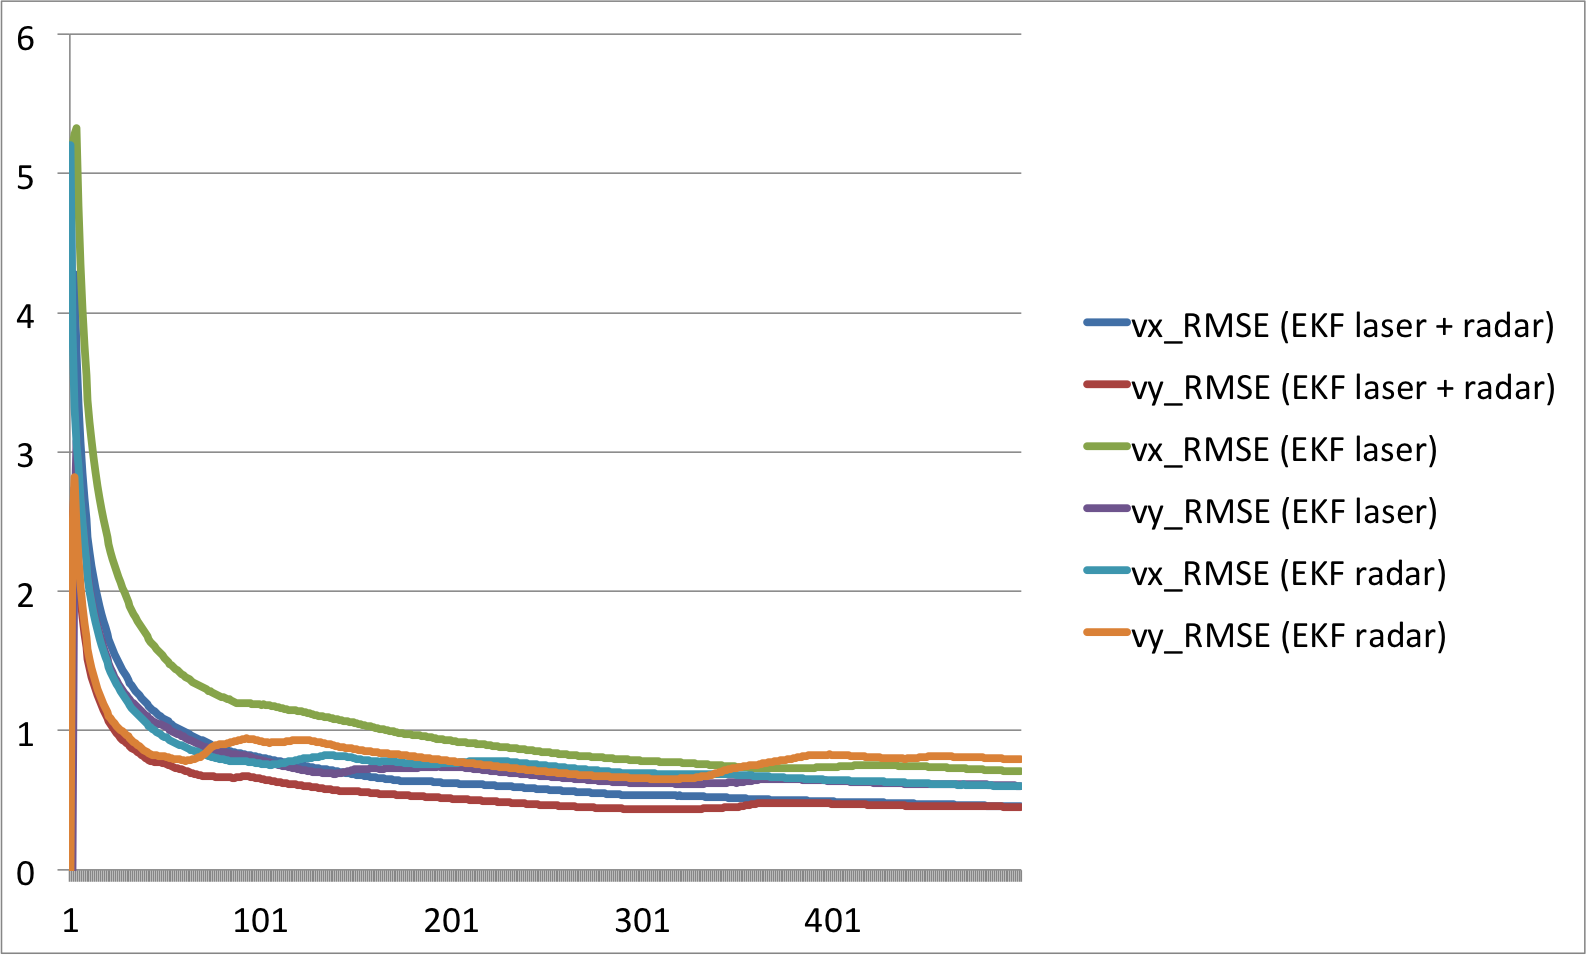
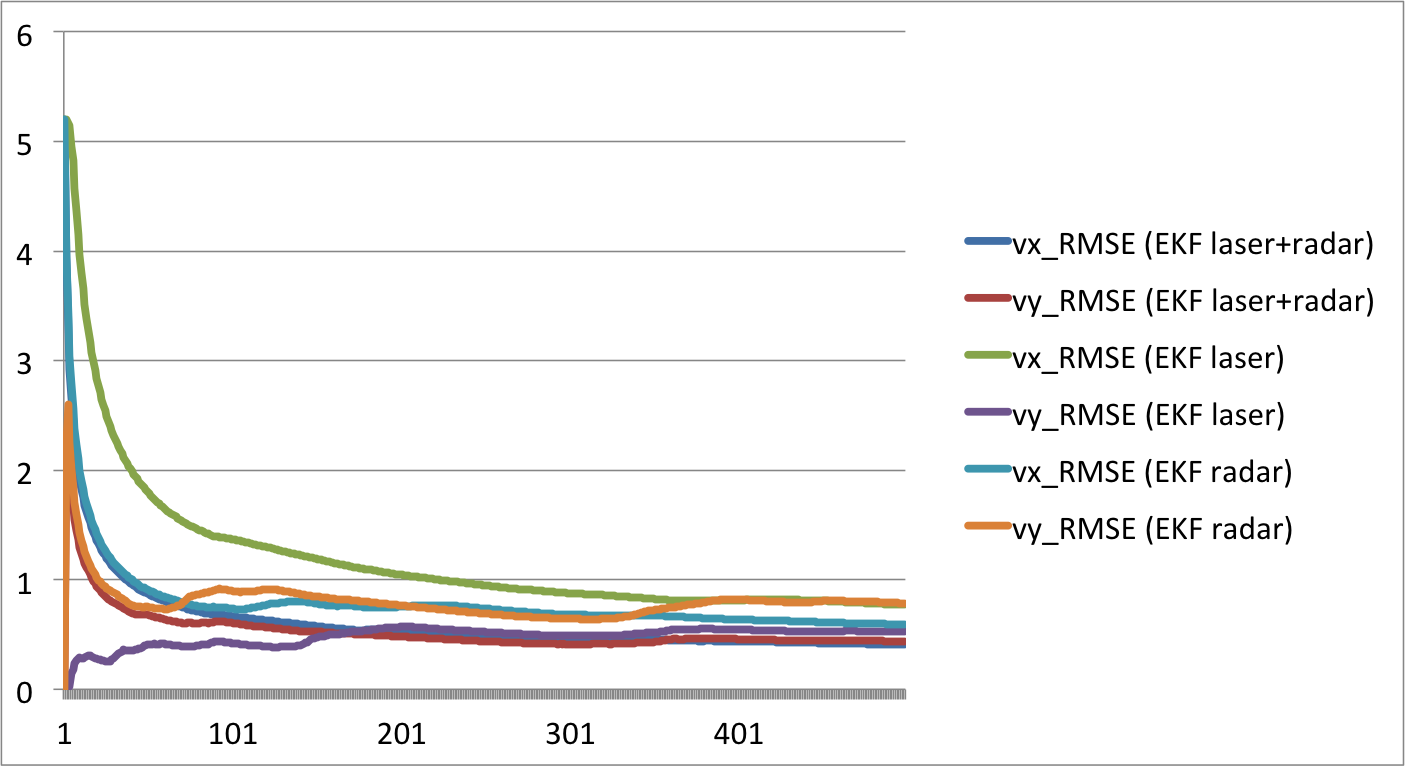
Correct initialization, angle compensation and some result images.

Changed region(s): [[0.0, 0.0, 1.0, 1.0], [0.6733, 0.4504, 0.9181, 0.7206]]

diff --git a/src/kalman_filter.cpp b/src/kalman_filter.cpp
@@ -35,9 +35,9 @@ void KalmanFilter::Update(const VectorXd &z) {
   VectorXd z_pred = H_ * x_;
   VectorXd y = z - z_pred;
   MatrixXd Ht = H_.transpose();
-  MatrixXd S = H_ * P_ * Ht + R_;
-  MatrixXd Si = S.inverse();
   MatrixXd PHt = P_ * Ht;
+  MatrixXd S = H_ * PHt + R_;
+  MatrixXd Si = S.inverse();
   MatrixXd K = PHt * Si;
   
   //new estimate
@@ -72,7 +72,7 @@ void KalmanFilter::UpdateEKF(const VectorXd &z) {
   if(y(1) > M_PI){
     y(1) = y(1) - 2 * M_PI;
   }
-  else if(y(1) < -M_PI){
+  if(y(1) < -M_PI){
     y(1) = y(1) + 2 * M_PI;
   }
 

diff --git a/src/main.cpp b/src/main.cpp
@@ -155,7 +155,8 @@ int main()
             float py = rho * sin(phi);
             logfile << px << "\t" << py << "\t";
           }
-          logfile << gt_values(0) << "\t" << gt_values(1) << "\t" << gt_values(2) << "\t" << gt_values(3) << endl;
+          logfile << gt_values(0) << "\t" << gt_values(1) << "\t" << gt_values(2) << "\t" << gt_values(3) << "\t";
+          logfile << RMSE(0) <<"\t"  << RMSE(1) <<"\t" <<  RMSE(2) <<"\t"  << RMSE(3) << endl;
           //---------------------
 
 

diff --git a/src/FusionEKF.cpp b/src/FusionEKF.cpp
@@ -91,8 +91,8 @@ void FusionEKF::ProcessMeasurement(const MeasurementPackage &measurement_pack) {
     MatrixXd P_in = MatrixXd (4,4);
     P_in << 1, 0, 0, 0,
             0, 1, 0, 0,
-            0, 0, 1000, 0,
-            0, 0, 0, 1000;
+            0, 0, 1, 0,
+            0, 0, 0, 1;
     
     // state transition matrix F
     MatrixXd F_in = MatrixXd (4,4);
